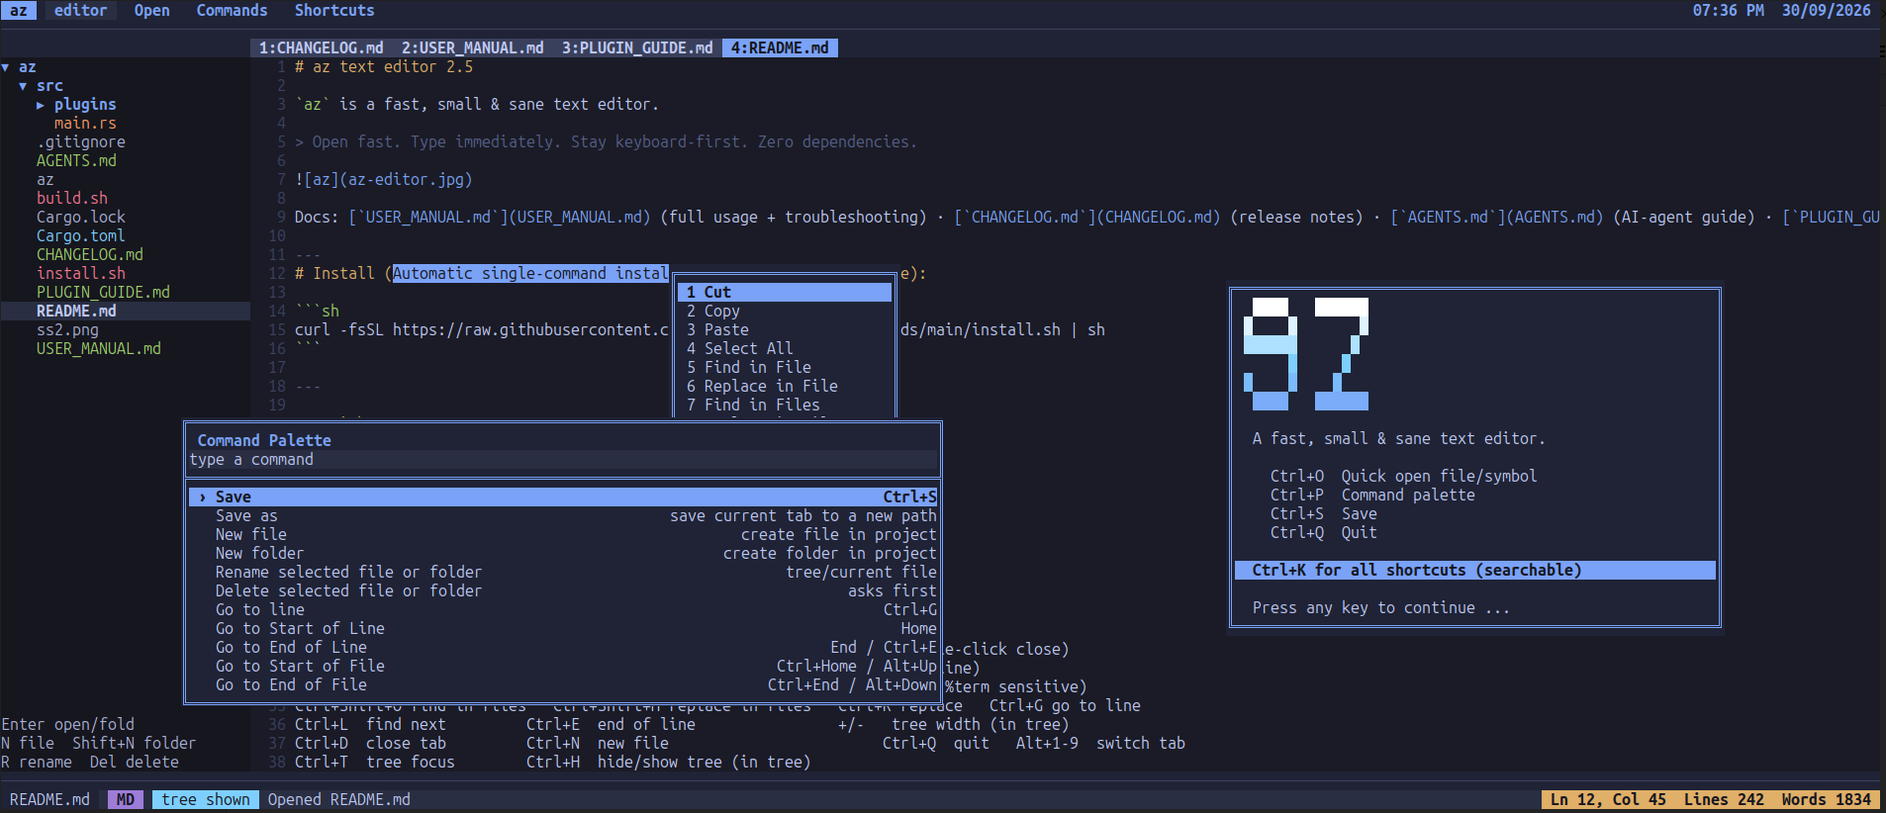
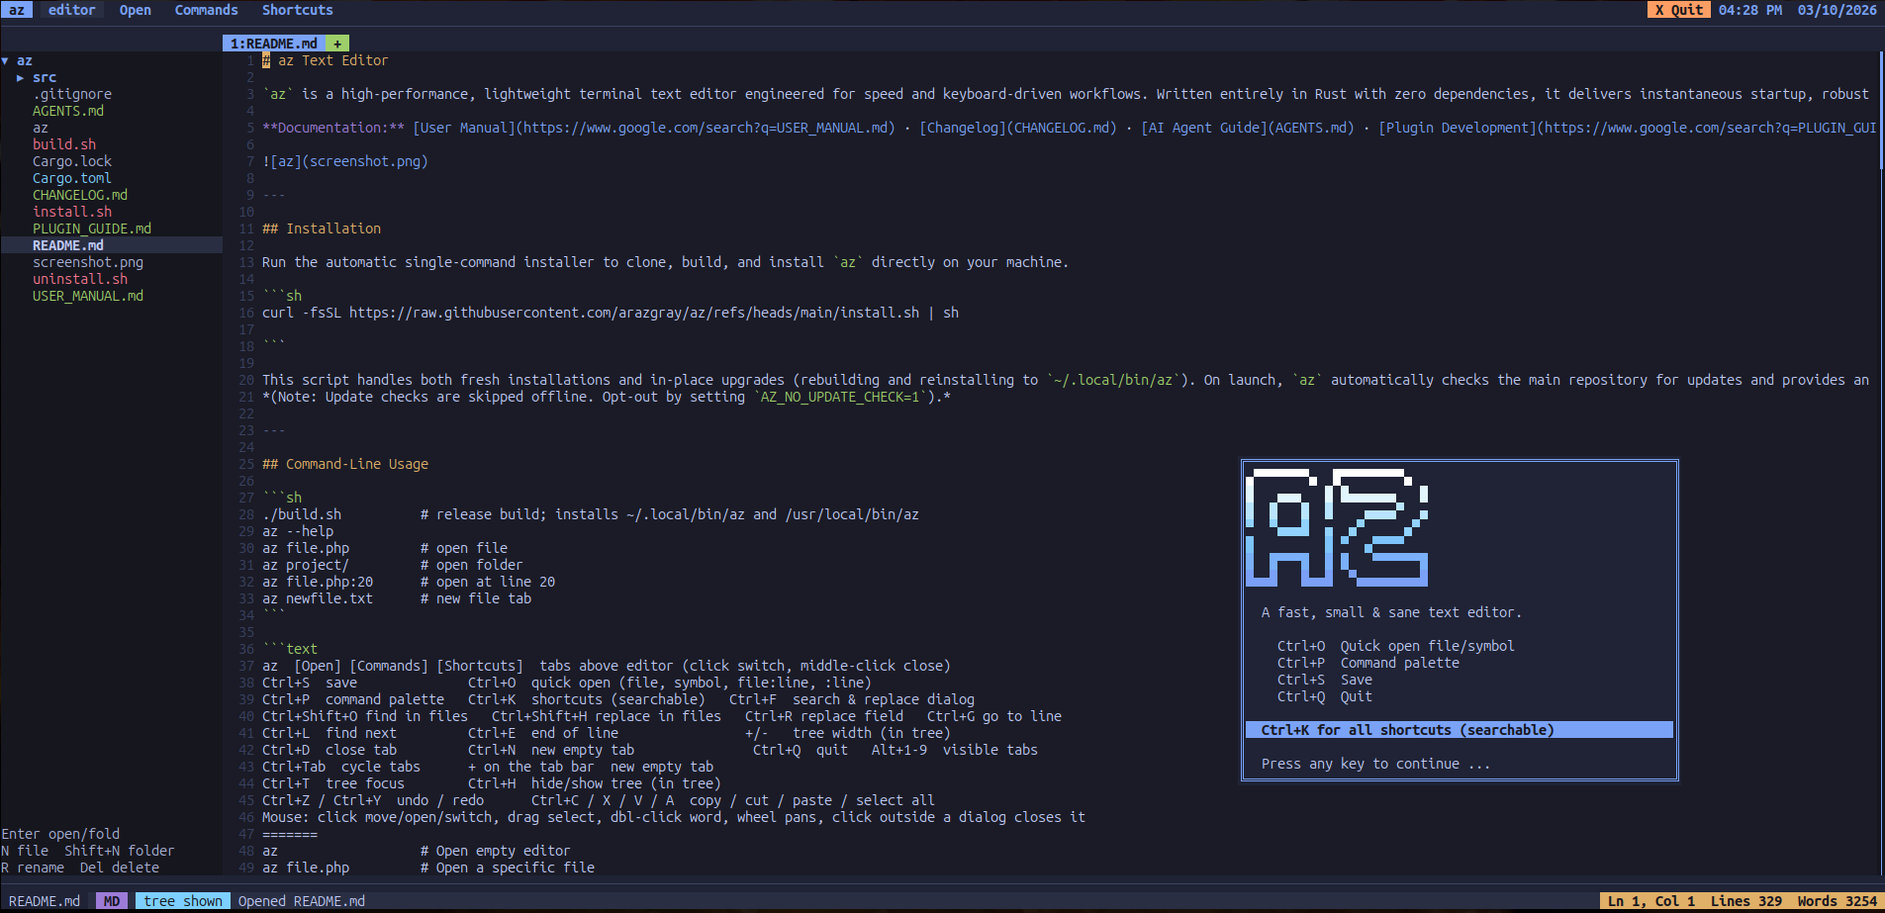
Update 3.0

diff --git a/src/main.rs b/src/main.rs
@@ -39,6 +39,7 @@ const ORANGE: &str = "#ff9e64";
 const YELLOW: &str = "#e0af68";
 const RED: &str = "#f7768e";
 const ACCENT: &str = BLUE;
+const QUIT_LABEL: &str = " X Quit ";
 const HISTORY_LIMIT: usize = 400;
 const QUICK_OPEN_LIMIT: usize = 2500;
 const PROJECT_SEARCH_LIMIT: usize = 80;
@@ -895,6 +896,7 @@ impl Editor {
                 match action {
                     "quick-open" => self.quick_open(),
                     "commands" => self.command_palette(),
+                    "quit" => self.confirm_quit(),
                     _ => self.shortcuts_dialog(),
                 }
             }
@@ -1544,7 +1546,9 @@ impl Editor {
 
     fn titlebar_button_regions(&mut self) -> Vec<(&'static str, &'static str, usize, usize)> {
         let defs = [(" Open ", "quick-open"), (" Commands ", "commands"), (" Shortcuts ", "shortcuts")];
-        let right_w = visual_width(&format!(" {} ", self.clock_text()));
+        let clock_w = visual_width(&format!(" {} ", self.clock_text()));
+        let quit_w = visual_width(QUIT_LABEL);
+        let right_w = clock_w + quit_w;
         let mut out = Vec::new();
         let mut x = 4 + 1 + self.focus_label().len() + 2 + 1;
         for (label, action) in defs {
@@ -1554,6 +1558,10 @@ impl Editor {
             out.push((label, action, x + 1, x + label.len()));
             x += 1 + label.len();
         }
+        if self.cols > right_w {
+            let start = self.cols.saturating_sub(right_w) + 1;
+            out.push((QUIT_LABEL, "quit", start, start + quit_w - 1));
+        }
         out
     }
 
@@ -1562,17 +1570,21 @@ impl Editor {
         let chip = ansi_style(Some(BG_DARK), Some(ACCENT), true, false, false);
         let mode_chip = ansi_style(Some(ACCENT), Some(BG_HIGHLIGHT), true, false, false);
         let button = ansi_style(Some(ACCENT), Some(BG_FLOAT), false, false, false);
+        let quit_style = ansi_style(Some(BG_DARK), Some(ORANGE), true, false, false);
         let right = format!(" {} ", self.clock_text());
-        let right_w = visual_width(&right);
+        let right_w = visual_width(&right) + visual_width(QUIT_LABEL);
         let mode = self.focus_label();
         let mut out = format!("\x1b[1;1H{chip} az {style} {mode_chip} {mode} ");
         let mut used = 4 + 1 + mode.len() + 2;
-        for (label, _, _, _) in self.titlebar_button_regions() {
+        for (label, action, _, _) in self.titlebar_button_regions() {
+            if action == "quit" {
+                continue;
+            }
             out.push_str(&format!("{style} {button}{label}"));
             used += 1 + label.len();
         }
         let mid = " ".repeat(self.cols.saturating_sub(used + right_w));
-        out.push_str(&format!("{style}{mid}{right}\x1b[0m"));
+        out.push_str(&format!("{style}{mid}{quit_style}{QUIT_LABEL}\x1b[0m{style}{right}\x1b[0m"));
         out
     }
 
@@ -3778,7 +3790,7 @@ impl Editor {
             ("Toggle sidebar", "Ctrl+H", "toggle-tree"),
             ("Focus tree/editor", "Ctrl+T", "focus-tree"),
             ("Close tab", "Ctrl+D", "close-tab"),
-            ("Demo mode", "show welcome, command palette, quick open", "demo-mode"),
+            ("UI showcase for screenshots", "random palette / search-replace / shortcuts", "screenshot-showcase"),
             ("Keyboard shortcuts", "searchable list (Ctrl+K)", "help"),
             ("Quit", "Ctrl+Q", "quit"),
         ];
@@ -3860,7 +3872,7 @@ impl Editor {
             "toggle-tree" => self.toggle_sidebar(),
             "focus-tree" => self.toggle_tree_focus(),
             "close-tab" => self.close_current_tab(),
-            "demo-mode" => self.show_demo_mode(),
+            "screenshot-showcase" => self.show_screenshot_showcase(),
             "help" => self.shortcuts_dialog(),
             "quit" => self.confirm_quit(),
             _ => self.message = "Unknown command".to_string(),
@@ -4269,36 +4281,63 @@ impl Editor {
         self.close_autocomplete();
     }
 
-    fn show_demo_mode(&mut self) {
-        let _ = self.render();
-        let width = max(28, self.cols / 3);
-        let height = max(8, self.rows / 2);
-        let quick = vec!["main.rs".to_string(), "src/editor.rs".to_string(), "README.md".to_string(), "app.php  #function run".to_string()];
-        let cmd = vec!["Save                   Ctrl+S".to_string(), "Set syntax PHP         force current tab".to_string(), "Project search         find text in files".to_string(), "Shortcuts              Ctrl+K".to_string()];
-        let welcome = vec!["   __ _ ____".to_string(), "  / _` |_  /".to_string(), " | (_| |/ / ".to_string(), r"  \__,_/___|".to_string(), "Ctrl+O Quick open".to_string(), "Ctrl+P Command palette".to_string(), "Ctrl+T Tree/editor".to_string()];
-        self.render_demo_tile(2, 2, width, height, "Welcome", &welcome, None, &[0,1,2,3]);
-        self.render_demo_tile(2, 4 + width, width, height, "Quick Open", &quick, Some(0), &[]);
-        self.render_demo_tile(2, 6 + width * 2, self.cols.saturating_sub(7 + width * 2), height, "Command Palette", &cmd, Some(0), &[]);
-        let _ = self.read_key_blocking();
-        self.message = "Demo closed".to_string();
+    /// Random-placed previews of the real dialogs so screenshots look alive.
+    /// Any key reshuffles the layout, Esc closes.
+    fn show_screenshot_showcase(&mut self) {
+        let mut rng = screenshot_seed();
+        loop {
+            let _ = self.render();
+            let palette: Vec<String> = self.command_items().iter().take(6)
+                .map(|i| format!("{}  {}", i.label, i.detail))
+                .collect();
+            let search = vec![
+                " Path     .".to_string(),
+                " Find     foo".to_string(),
+                " Replace  bar".to_string(),
+                " 3 matches".to_string(),
+                " Replace    Cancel".to_string(),
+            ];
+            let shortcuts: Vec<String> = shortcut_defs().iter().take(6)
+                .map(|(k, d)| format!("{k}  {d}"))
+                .collect();
+            let mut out = String::new();
+            out.push_str(&self.render_showcase_box(&mut rng, " Command Palette ", &palette, Some(0)));
+            out.push_str(&self.render_showcase_box(&mut rng, " Search & Replace ", &search, None));
+            out.push_str(&self.render_showcase_box(&mut rng, " Keyboard Shortcuts ", &shortcuts, Some(1)));
+            print!("{out}");
+            let _ = io::stdout().flush();
+            self.message = "Showcase: any key reshuffles, Esc closes".to_string();
+            match self.read_key_blocking() {
+                Ok(k) if k == "\x1b" => {
+                    self.message = "Showcase closed".to_string();
+                    return;
+                }
+                Err(_) => {
+                    self.message = "Showcase closed".to_string();
+                    return;
+                }
+                _ => {}
+            }
+        }
     }
 
-    fn render_demo_tile(&self, row: usize, col: usize, width: usize, height: usize, title: &str, lines: &[String], selected: Option<usize>, logo_lines: &[usize]) {
-        if width < 8 || height < 4 || col > self.cols { return; }
+    fn render_showcase_box(&self, rng: &mut u64, title: &str, lines: &[String], selected: Option<usize>) -> String {
+        let width = min(46, self.cols.saturating_sub(2)).max(20);
+        let height = min(lines.len() + 3, self.rows.saturating_sub(4)).max(5);
+        let body = &lines[..min(lines.len(), height.saturating_sub(3))];
+        let (col, row) = showcase_box_pos(screenshot_next(rng), self.cols, self.rows, width, height);
         let inner = width.saturating_sub(2);
         let border = ansi_style(Some(BLUE), Some(BG_FLOAT), true, false, false);
         let mut out = String::new();
         out.push_str(&format!("\x1b[{row};{col}H{border}╔{}╗\x1b[0m", "═".repeat(inner)));
         out.push_str(&format!("\x1b[{};{col}H{border}║\x1b[0m{}{}\x1b[0m{border}║\x1b[0m", row + 1, ansi_style(Some(ACCENT), Some(BG_FLOAT), true, false, false), fit_plain(title, inner)));
-        for i in 0..height.saturating_sub(3) {
+        for (i, text) in body.iter().enumerate() {
             let r = row + 2 + i;
-            let text = lines.get(i).map(String::as_str).unwrap_or("");
-            let style = if selected == Some(i) { ansi_style(Some(BG_DARK), Some(ACCENT), true, false, false) } else if logo_lines.contains(&i) { ansi_style(Some(ORANGE), Some(BG_FLOAT), true, false, false) } else { ansi_style(Some(FG), Some(BG_FLOAT), false, false, false) };
+            let style = if selected == Some(i) { ansi_style(Some(BG_DARK), Some(ACCENT), true, false, false) } else { ansi_style(Some(FG), Some(BG_FLOAT), false, false, false) };
             out.push_str(&format!("\x1b[{r};{col}H{border}║\x1b[0m{style}{}\x1b[0m{border}║\x1b[0m", fit_plain(text, inner)));
         }
         out.push_str(&format!("\x1b[{};{col}H{border}╚{}╝\x1b[0m", row + height - 1, "═".repeat(inner)));
-        print!("{out}");
-        let _ = io::stdout().flush();
+        out
     }
 
     fn handle_autocomplete_key(&mut self, key: &str) -> bool {
@@ -4711,19 +4750,19 @@ fn sudo_failure_message(stderr: &[u8]) -> String {
 fn ansi_fg(hex: &str) -> String { let (r, g, b) = rgb(hex); format!("\x1b[38;2;{r};{g};{b}m") }
 fn ansi_bg(hex: &str) -> String { let (r, g, b) = rgb(hex); format!("\x1b[48;2;{r};{g};{b}m") }
 
-/// Welcome logo: `az` block letters with the ttfx `highlight` final gradient
-/// (Tokyo Night stops). Generated offline with ttfx — do not hand-edit.
+/// Welcome logo: block `az` mark (user-supplied art).
 /// Each row is (styled text, plain visual width); rows are ragged, pad per row.
-const TTFX_LOGO_WIDTH: usize = 15;
+const TTFX_LOGO_WIDTH: usize = 23;
 
 fn ttfx_logo() -> Vec<(String, usize)> {
     vec![
-        ("\x1b[38;2;255;255;255m  ████   ██████".to_string(), 15),
-        ("\x1b[38;2;221;243;255m █    █       █".to_string(), 15),
-        ("\x1b[38;2;173;225;255m ██████      █".to_string(), 14),
-        ("\x1b[38;2;125;207;255m      █     █".to_string(), 13),
-        ("\x1b[38;2;122;187;252m █    █    █".to_string(), 12),
-        ("\x1b[38;2;122;172;249m  ████   ██████".to_string(), 15),
+        ("\x1b[38;2;255;255;255m▄▀▀▀▀▀▀▀▄  █▀▀▀▀▀▀▀▀▄".to_string(), 21),
+        ("\x1b[38;2;225;245;255m█   ▄▄▄   █ █▄▄▄▄▄▄   █".to_string(), 23),
+        ("\x1b[38;2;185;228;255m█  █   █  █    ▄▄▄▄▀  ▄".to_string(), 23),
+        ("\x1b[38;2;145;210;255m▀  ▀▄▄▄█  ▄  ▄▀     ▄▀".to_string(), 22),
+        ("\x1b[38;2;125;195;252m█         █ ▀  ▄▀▀▀▀".to_string(), 20),
+        ("\x1b[38;2;122;175;250m█  █▀▀▀█  █ █   ▀▀▀▀▀▀█".to_string(), 23),
+        ("\x1b[38;2;122;160;247m█▄▄█   █▄▄█  ▀▄▄▄▄▄▄▄▄█".to_string(), 23),
     ]
 }
 fn ansi_style(fg: Option<&str>, bg: Option<&str>, bold: bool, dim: bool, underline: bool) -> String {
@@ -5360,6 +5399,30 @@ fn picker_frame(cols: usize, rows: usize) -> PickerFrame {
     let start_col = max(1, (cols.saturating_sub(width)) / 2 + 1);
     let start_row = max(2, (rows.saturating_sub(height)) / 2 + 1);
     PickerFrame { start_col, start_row, width, height, list_rows }
+}
+
+/// Std-only PRNG for the screenshot showcase (no crates).
+fn screenshot_seed() -> u64 {
+    let nanos = SystemTime::now().duration_since(UNIX_EPOCH).map(|d| d.subsec_nanos() as u64).unwrap_or(0x9e37);
+    nanos ^ ((std::process::id() as u64).wrapping_mul(0x9e3779b97f4a7c15))
+}
+
+fn screenshot_next(state: &mut u64) -> u64 {
+    *state = state.wrapping_mul(6364136223846793005).wrapping_add(1442695040888963407);
+    (*state >> 33) ^ *state
+}
+
+/// Random 1-based box origin clamped inside the viewport.
+/// Keeps rows 1-3 (titlebar/tabs) and the status line clear.
+fn showcase_box_pos(rand_val: u64, cols: usize, rows: usize, width: usize, height: usize) -> (usize, usize) {
+    let w = width.min(cols.saturating_sub(2).max(1)).max(1);
+    let h = height.min(rows.saturating_sub(4).max(1)).max(1);
+    let max_col = cols.saturating_sub(w).max(1);
+    let top = 4usize;
+    let max_row = rows.saturating_sub(1).saturating_sub(h).max(top);
+    let col = (rand_val as usize % max_col.max(1)) + 1;
+    let row = top + ((rand_val >> 16) as usize % (max_row.saturating_sub(top) + 1).max(1));
+    (col.min(max_col).max(1), row.min(max_row).max(top))
 }
 
 enum PickerMouse {
@@ -6636,6 +6699,42 @@ mod tests {
         assert_eq!(x, prefix.len() + 1);
         let label = " Open ";
         assert_eq!((x + 1)..=(x + label.len()), (prefix.len() + 2)..=(prefix.len() + 1 + label.len()));
+    }
+
+    #[test]
+    fn titlebar_quit_button_sits_left_of_clock() {
+        let dir = std::env::temp_dir().join(format!("az-quitbtn-{}", std::process::id()));
+        let _ = std::fs::remove_dir_all(&dir);
+        std::fs::create_dir_all(&dir).unwrap();
+        let file = dir.join("q.txt");
+        std::fs::write(&file, "x").unwrap();
+        let mut ed = Editor::new(vec!["az".into(), file.to_str().unwrap().into()]);
+        ed.cols = 80;
+        ed.rows = 24;
+        let regions = ed.titlebar_button_regions();
+        let quit = regions.iter().find(|(_, a, _, _)| *a == "quit").expect("quit region");
+        assert_eq!(quit.0, QUIT_LABEL);
+        let clock_w = visual_width(&format!(" {} ", ed.clock_text()));
+        assert_eq!(quit.2, 80 - (clock_w + visual_width(QUIT_LABEL)) + 1);
+        assert_eq!(quit.3, 80 - clock_w);
+        assert_eq!(ed.titlebar_button_action(quit.2), Some("quit"));
+        assert_eq!(ed.titlebar_button_action(80), None);
+        let bar = ed.render_titlebar();
+        assert!(bar.contains(QUIT_LABEL));
+        assert!(bar.contains("48;2;255;158;100"));
+        let _ = std::fs::remove_dir_all(&dir);
+    }
+
+    #[test]
+    fn showcase_box_stays_in_viewport() {
+        for seed in [0u64, 1, 42, 0xdeadbeef, u64::MAX] {
+            let (col, row) = showcase_box_pos(seed, 80, 24, 46, 9);
+            assert!(col >= 1 && col + 46 - 1 <= 80, "col {col}");
+            assert!(row >= 4 && row + 9 - 1 <= 23, "row {row}");
+        }
+        let (col, row) = showcase_box_pos(7, 30, 12, 46, 20);
+        assert!(col >= 1 && col <= 30);
+        assert!(row >= 4 && row <= 11);
     }
 
     #[test]

diff --git a/AGENTS.md b/AGENTS.md
@@ -62,7 +62,7 @@ Rendering: immediate-mode ANSI, `render()` each keystroke + each minute (clock).
 
 Input: raw mode via `stty -echo -icanon -isig -ixon ... min 0 time 1`. `read_key()` returns `String` (escape seqs as text, paste as `\0AZPASTE:…`). `is_printable()` filters. Mouse: SGR `1000`+`1002`+`1006` enabled in `enable_raw_mode()`, disabled in `cleanup()`; `read_key()` breaks on `M/m` for `ESC[<…` (or 6-byte `ESC[M` legacy); `handle_key()` routes both via `parse_sgr_mouse()` / `parse_legacy_mouse()` → `handle_mouse()`. Picker loops (quick open, palette, find-in-files, shortcuts) and `context_menu()` scroll selection on wheel.
 
-Mouse: left-click sidebar (`x <= tree_width`) toggles dir / opens file; double-click same path <500ms calls `rename_tree_path_prompt(false)`. Title row buttons hit-tested via `titlebar_button_regions()` (plain prefix is ` az   {mode} `, 7 + mode length; the hit starts on the label). Left-click editor maps `(x,y)` via `editor_start_col()+gutter` + `editor_click_col()` (visual→byte, tab=4/wide=2 aware) and moves cursor. Wheel (`Cb&64`, up=`Cb&1==0`) is ±1 per report: tab bar (`y==3`) cycles tabs, sidebar moves `tree_index` and sets `follow_tree = true`, editor sets `follow_cursor = false` and pans `row_offset` (caret and selection stay). Do not put the ±3 step back, and do not move the caret from the wheel. Right-click (`Cb&3==2`) opens `context_menu()`; middle-click (`==1`) on a tab closes via `close_tab_at()` (the `+` button is not a tab). A click on a vertical bar pans that pane and does not open a menu or move the caret. Left-drag motion (`Cb&32`, button 0) extends selection from `mouse_drag_start`, unless `vscroll_drag` or `hscroll_drag` is set. Picker dialogs and the search/replace dialog close on a click outside `picker_frame`. Autocomplete: click inside accepts, click outside closes and the click still lands. Layout rows: 1 titlebar, 2 separator, 3 tab bar, 4.. content (`content_height = rows-5`), separator, `rows` status. When `show_hscroll`, the last content row is the shared horizontal bar and `editor_view_rows` is one shorter. Vertical bars (`show_editor_vscroll`, `show_tree_vscroll`) occupy the pane's right column on text rows only (`┃` / `│`); the corner stays on the horizontal bar. `refresh_hscroll` recomputes horizontal then vertical twice so a stolen column or row settles. `>` not `>=`. `ensure_tree_visible` uses `editor_view_rows` and honors `follow_tree`.
+Mouse: left-click sidebar (`x <= tree_width`) toggles dir / opens file; double-click same path <500ms calls `rename_tree_path_prompt(false)`. Title row buttons hit-tested via `titlebar_button_regions()` (plain prefix is ` az   {mode} `, 7 + mode length; the hit starts on the label; orange ` X Quit ` sits left of the clock and calls `confirm_quit()`). Left-click editor maps `(x,y)` via `editor_start_col()+gutter` + `editor_click_col()` (visual→byte, tab=4/wide=2 aware) and moves cursor. Wheel (`Cb&64`, up=`Cb&1==0`) is ±1 per report: tab bar (`y==3`) cycles tabs, sidebar moves `tree_index` and sets `follow_tree = true`, editor sets `follow_cursor = false` and pans `row_offset` (caret and selection stay). Do not put the ±3 step back, and do not move the caret from the wheel. Right-click (`Cb&3==2`) opens `context_menu()`; middle-click (`==1`) on a tab closes via `close_tab_at()` (the `+` button is not a tab). A click on a vertical bar pans that pane and does not open a menu or move the caret. Left-drag motion (`Cb&32`, button 0) extends selection from `mouse_drag_start`, unless `vscroll_drag` or `hscroll_drag` is set. Picker dialogs and the search/replace dialog close on a click outside `picker_frame`. Autocomplete: click inside accepts, click outside closes and the click still lands. Layout rows: 1 titlebar, 2 separator, 3 tab bar, 4.. content (`content_height = rows-5`), separator, `rows` status. When `show_hscroll`, the last content row is the shared horizontal bar and `editor_view_rows` is one shorter. Vertical bars (`show_editor_vscroll`, `show_tree_vscroll`) occupy the pane's right column on text rows only (`┃` / `│`); the corner stays on the horizontal bar. `refresh_hscroll` recomputes horizontal then vertical twice so a stolen column or row settles. `>` not `>=`. `ensure_tree_visible` uses `editor_view_rows` and honors `follow_tree`.
 
 ## 3. Critical Invariants (do not break)
 
@@ -156,10 +156,10 @@ Unreleased (vertical scrollbars):
 - Replace in Files is `Ctrl+Shift+H` only (`is_ctrl_shift_h`); caps: 3000 files, 5MB, 10k matches. Open modified tabs are skipped (never clobber unsaved buffers); reloaded tabs get `undo/redo` cleared (positions refer to old content).
 - Right-click (`button&3==2`) opens `context_menu()`; middle-click (`==1`) on topbar closes via `close_tab_at()`. Menu loop swallows its own mouse (click-away/Esc cancel, `1-9` pick). Never route menu keys through global shortcuts.
 - Inactive tabs use `BG_TAB` (lighter than bar); open file row uses `BG_HIGHLIGHT` in `render_tree_line()`; status chips in `render_status_line()` (`modified`-only orange, stats yellow) — no `saved` chip, it was display-only noise. Mode chip lives in the titlebar via `focus_label()`.
-- `Ctrl+K` opens `shortcuts_dialog()` (`shortcut_defs()` + shared `filter_command_items()`); `Ctrl+/` (`is_ctrl_slash`) is gone. Titlebar buttons (plain ACCENT text, no bg chip) hit-tested via `titlebar_button_regions()` → quick-open/palette/shortcuts.
+- `Ctrl+K` opens `shortcuts_dialog()` (`shortcut_defs()` + shared `filter_command_items()`); `Ctrl+/` (`is_ctrl_slash`) is gone. Titlebar buttons (plain ACCENT text, no bg chip; orange `X Quit` with `QUIT_LABEL` left of the clock) hit-tested via `titlebar_button_regions()` → quick-open/palette/shortcuts/quit. Palette `screenshot-showcase` draws palette + search-replace + shortcuts previews at random `showcase_box_pos()` spots (any key reshuffles, Esc closes).
 - Clipboard: `copy_to_system_clipboard()` returns verified bool; cascade `try_clipboard_tool()` (`wl-copy`/`xclip`/`xsel`/`pbcopy` via `pipe_to_clipboard_tool()`) then `osc52_sequence()`; OSC52-first over SSH. Messages `Copied` vs `Copied (OSC52)`.
 - Status flash: `render()` arms `status_flash_until` on message change (750ms, 250ms phases, CYAN); `prompt()` blinks every prompt light blue (350ms) using non-blocking `read_key()` ticks + `redraw` flag.
-- Welcome logo is generated bytes from ttfx `highlight` (`ttfx_logo()` + `TTFX_LOGO_WIDTH`, per-row widths — rows are ragged, never pad to a single width).
+- Welcome logo is the user-supplied block `az` mark (`ttfx_logo()` + `TTFX_LOGO_WIDTH`, per-row widths — rows are ragged, never pad to a single width).
 
 2.2 (search + navigation):
 - Find in Files is `Ctrl+Shift+O` only (`is_ctrl_shift_o`); never re-add `Ctrl+Shift+F` — terminals reserve it for their own search bar.

diff --git a/USER_MANUAL.md b/USER_MANUAL.md
@@ -48,7 +48,7 @@ If you pass a folder, you start in the tree. Press `Enter` on a file to edit, or
   └ popups: welcome, shortcuts (Ctrl+K), quick open (Ctrl+O), palette (Ctrl+P) ┘
 ```
 
-- Titlebar: blue `az` chip + mode (`editor`/`tree`) chip, clickable plain-text buttons (`Open` → quick open, `Commands` → palette, `Shortcuts` → shortcut list), clock — full-width separator below. Tab bar under the separator, above the editor: at most nine tabs, windowed around the current one (`1:name` numbers that window), `*` = modified, inactive tabs shaded lighter. Click a tab to switch, middle-click to close. `+` at the end opens an empty unsaved tab (middle-click and right-click on `+` do nothing).
+- Titlebar: blue `az` chip + mode (`editor`/`tree`) chip, clickable plain-text buttons (`Open` → quick open, `Commands` → palette, `Shortcuts` → shortcut list), orange `X Quit` button left of the clock — full-width separator below. Tab bar under the separator, above the editor: at most nine tabs, windowed around the current one (`1:name` numbers that window), `*` = modified, inactive tabs shaded lighter. Click a tab to switch, middle-click to close. `+` at the end opens an empty unsaved tab (middle-click and right-click on `+` do nothing).
 - Tree: `▾` open dir, `▸` closed dir. Colors by extension (PHP purple, HTML orange, JS yellow, shell rc files red, etc.).
 - Gutter: line numbers, min width 4.
 - Status: one chip per item — path, state (`modified`, orange, only when the text differs from the last save), syntax (purple), tree (cyan) | message (flashes light blue on change, red on a permission error, then one clear frame) | stats (yellow). `Col` is the screen column. On a narrow terminal the tree chip, then the syntax chip, drop so the message stays. Prompts blink light blue until answered. The root-password prompt blinks red.
@@ -136,7 +136,7 @@ Type to fuzzy-match files + symbols. Forms:
 Skips: `.git node_modules vendor .idea .vscode target dist build __pycache__ .next .nuxt`. Limit 2500 files, symbols from first 600 programming files <1MB.
 
 ### Command Palette (`Ctrl+P`)
-`Save, Save as, New file/folder, Rename/Delete, Go to line, Go to Start/End of Line, Go to Start/End of File, Find in files, Replace in files, Set syntax …, Find/Replace, Toggle sidebar, Focus tree/editor, Close tab, Demo mode, Keyboard shortcuts, Quit`. Type `set php` to force language.
+`Save, Save as, New file/folder, Rename/Delete, Go to line, Go to Start/End of Line, Go to Start/End of File, Find in files, Replace in files, Set syntax …, Find/Replace, Toggle sidebar, Focus tree/editor, Close tab, UI showcase for screenshots, Keyboard shortcuts, Quit`. Type `set php` to force language.
 
 ### Find / Replace
 `Ctrl+F` (find field), `Ctrl+R` (replace field), and `Ctrl+Shift+H` (project path) open the same dialog:
